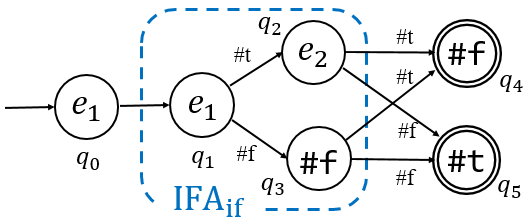
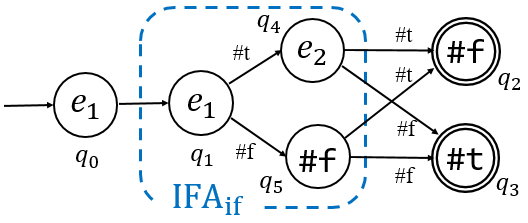
fix 4&6

diff --git a/popl21/zhichaoapproach.tex b/popl21/zhichaoapproach.tex
@@ -53,7 +53,7 @@ As mentioned above, IFA intuitively describes the evaluation rules of a certain 
         \label{fig:ifa-nand}
     \end{figure}
 
-    Sometimes the rules may be more complex, such as being reduced into another language construct, or an expression containing other syntactic structures. For example, for the following evaluation rules for \m{nand}:
+    Sometimes the rules may be more complex, such as being reduced into another language construct, or an expression containing other language constructs. For example, for the following evaluation rules for \m{nand}:
     \[
         \infer{(\m{nand}~e_1~e_2) \to (\m{nand}~e_1'~e_2)}{e_1 \to e_1'}
     \]\[
@@ -64,9 +64,9 @@ As mentioned above, IFA intuitively describes the evaluation rules of a certain 
     % \infax[E-NandV]{(\m{nand}~v_1~e_2) \to (\m{if}~(\m{if}~v_1~e_2~\m{\#f})~\m{\#f}~\m{\#t})}
     %
     we can draw \m{nand}'s IFA as Figure \ref{fig:ifa-nand-a}.
-    When the automaton runs into the terminal node of Figure \ref{fig:ifa-nand-a}, it goes to derive the \m{if} expression. In fact, we have known how \m{if} works through the IFA of \m{if}. Thus we can replace the last node with an $\text{IFA}_{\m{\scriptsize if}}$ and substitute $e_1$ to $e_3$ of $\text{IFA}_{\m{\scriptsize if}}$ with the parameters of the node. Use the termination nodes of $\text{IFA}_{\m{\scriptsize if}}$ as the termination nodes of new $\text{IFA}_{\m{\scriptsize \scriptsize nand}}$. The results are shown in Figure \ref{fig:ifa-nand-b}. Further decomposing the inner \m{if} node, connecting the terminating nodes of $\text{IFA}_{\m{\scriptsize nand}}$ to the nodes pointed to by the original output edge, we get Figure \ref{fig:ifa-nand-c}.
+    When the automaton runs into the terminal node of Figure \ref{fig:ifa-nand-a}, it goes to derive the \m{if} expression. In fact, we have known how \m{if} works through the IFA of \m{if}. Thus we can replace the last node with an $\text{IFA}_{\m{\scriptsize if}}$ and substitute $e_1$ to $e_3$ of $\text{IFA}_{\m{\scriptsize if}}$ with the parameters of the node. Use the terminal nodes of $\text{IFA}_{\m{\scriptsize if}}$ as the terminal nodes of new $\text{IFA}_{\m{\scriptsize \scriptsize nand}}$. The results are shown in Figure \ref{fig:ifa-nand-b}. Further decomposing the inner \m{if} node, connecting the terminal nodes of $\text{IFA}_{\m{\scriptsize nand}}$ to the nodes pointed to by the original output edge, we get Figure \ref{fig:ifa-nand-c}.
 
-    As the nodes of IFA in Figure \ref{fig:ifa-nand-c} have no other composite syntactic structures, such an IFA completely expresses the semantics of a language construct, and no longer cares about the evaluation rules of other syntactic structures. We will do similar steps for syntactic sugars, which will be discussed later.
+    As the nodes of IFA in Figure \ref{fig:ifa-nand-c} have no other composite language constructs, such an IFA completely expresses the semantics of a language construct, and no longer cares about the evaluation rules of other language constructs. We will do similar steps for syntactic sugars, which will be discussed later.
     \myend
 \end{example}
 
@@ -105,10 +105,10 @@ As mentioned above, IFA intuitively describes the evaluation rules of a certain 
     An inference automaton (IFA) of language construct \m{H} is a 5-tuple, $(Q, \Sigma, q_0, F, \delta)$, consisting of
 
     \begin{itemize}
-        \item A finite set of nodes $Q$, each node containing an expression and a symbol table which maps a variable to a node;
+        \item A finite set of nodes $Q$, each node containing an expression and a symbol table which maps variables to nodes;
         \item A finite set of conditions $\Sigma$;
         \item A start node $q_0 \in Q$;
-        \item A set of terminal nodes $F \subseteq Q$; and
+        \item A set of terminal nodes $F \subseteq Q$;
         \item A transition function $\delta: (Q-F) \times \Sigma' \to Q$ where $\Sigma' \subseteq \Sigma$.
     \end{itemize}
     and for each node $q$, there is no path to itself (i.e., there is no sequence of conditions $C = (c_1,c_2,\ldots,c_n)\subseteq \Sigma^*$, such that after $q$ transfers sequentially according to $P$, it returns $q$.)
@@ -116,12 +116,12 @@ As mentioned above, IFA intuitively describes the evaluation rules of a certain 
 \end{Def}
 
 %The last constraint requires that there be no circles in our IFA.
-The state transition depends on whether the expression meets the condition. Note that each IFA is associated with language construct. Each state in IFA represents the current evaluation of a language construct, indicating that some subexpressions of the language construct have been evaluated at this state, and the rest have not.
+The state transition depends on whether the expression meets the condition. Note that each IFA is associated with language construct. Each state in IFA represents the current evaluation of a language construct, indicating that some subexpressions of the language construct have been evaluated at this state, and the others have not.
 
 %======================
 \subsection{Normal IFA}
 
-Although IFA can describe the evaluation behavior of a language construct, IFA itself may be in a complicated form. For example, the IFA of a language construct contains other syntactic structures in Figure \ref{fig:ifa-nand-a}. We will simplify IFA to make it easier to analyze.
+Although IFA can describe the evaluation behavior of a language construct, IFA itself may be in a complicated form. For example, the IFA of a language construct contains other language constructs in Figure \ref{fig:ifa-nand-a}. We will simplify IFA to make it easier to analyze.
 
 \begin{Def}[Normal IFA]
     \label{def:nmlifa}
@@ -133,12 +133,12 @@ Although IFA can describe the evaluation behavior of a language construct, IFA i
     \end{itemize}
 \end{Def}
 
-If an IFA is normal, it means that there are no more composite syntactic structures in it, and that it is of a tree structure.
+If an IFA is normal, it means that there are no more composite language constructs in it, and that it is of a tree structure.
 In fact, it is always feasible to convert IFA to normal IFA.
 
 \begin{mythm}[Normalizability of IFA]
     \label{mythm:nmlifa}
-    An IFA can be transformed into a normal IFA, if the normal IFAs of all sub-syntactic structures in the IFA are known.
+    An IFA can be transformed into a normal IFA, if the normal IFAs of all sub-language constructs in the IFA are known.
 \end{mythm}
 
 We can prove this theorem by repeatedly applying the following correctness-preserving steps to normalize an IFA.
@@ -147,7 +147,7 @@ We can prove this theorem by repeatedly applying the following correctness-prese
 %------------------------------------
 \subsubsection*{Step 1: Transforming into a Tree}
 
-As we have assumed that evaluation of a subexpression does not have side effect on the evaluation of other subexpressions, a node with at least two sources can be cloned and applied to different branches as shown in Figure \ref{fig:nmlifa-tree}; replacing the node referenced by the branch with the cloned node in conditions and symbol tables.  In this way, we can transform an IFA into a tree so that it meet the second condition for a  normal IFA.
+As we have assumed that evaluation of a subexpression does not have side effects on the evaluation of other subexpressions, a node with at least two sources can be cloned and applied to different branches as shown in Figure \ref{fig:nmlifa-tree}; replacing the node referenced by the branch with the cloned node in conditions and symbol tables.  In this way, we can transform an IFA into a tree so that it meet the second condition for a normal IFA.
 
 \begin{figure}[t]
     \centering
@@ -160,7 +160,7 @@ As we have assumed that evaluation of a subexpression does not have side effect 
 \subsubsection*{Step 2: Substituting Sub-Language Construct}
 \label{mark:hygieneinderive}
 
-If node $q$ in the tree IFA contains an expression of a language construct \m{H}, we replace this node with the normal IFA of \m{H}, replace the parameters, and pass the symbol table of $q$ into the sub-IFA. Then, connect all the termination nodes of \m{H} to the original output node $q'$, and convert it into a tree IFA according to the method described in the previous step as shown in Figure \ref{fig:nmlifa-subst}. Replace the node referenced by the branch with the \textit{new} one in conditions and symbol tables. This step preserve the semantics because of $(\m{H}~e_1~\ldots~e_n)[e/x] = (\m{H}~e_1[e/x]~\ldots~e_n[e/x])$.
+If node $q$ in the tree IFA contains an expression of a language construct \m{H}, we replace this node with the normal IFA of \m{H}, replace the parameters, and pass the symbol table of $q$ into the sub-IFA. Then, connect all the terminal nodes of \m{H} to the original output node $q'$, and convert it into a tree IFA according to the method described in the previous step as shown in Figure \ref{fig:nmlifa-subst}. Replace the node referenced by the branch with the \textit{new} one in conditions and symbol tables. This step preserve the semantics because of $(\m{H}~e_1~\ldots~e_n)[e/x] = (\m{H}~e_1[e/x]~\ldots~e_n[e/x])$.
 
 In particular, if an expression $e$ does not contain a certain variable $x$, we can remove it from the symbol table. For example, in our problem, each pattern variable $e_i$ of syntactic sugar cannot contain unbound variables. So we can remove all symbol tables of nodes with $e_i$.
 
@@ -188,7 +188,7 @@ If the expression of a node $q$ is a local variable $x$ and $x$ is in the symbol
 %---------------------------------------------------------------------
 \subsubsection*{Step 4: Removing Evaluated Nodes and Merge Transition Conditions}
 
-If an IFA is a tree, for each branch, remove the non-terminal nodes that have been evaluated with the same symbol table, and merge the conditions on the transition edge as in Figure \ref{fig:nmlifa-merge}. Replace the node referenced by the branch with the first-evaluated node in conditions and symbol tables. This step can make an IFA satisfy the third constraint of normal IFA.
+If an IFA is a tree, for each branch, remove the non-terminal nodes that have been evaluated with the same symbol table, and merge the conditions on the transition edge as Figure \ref{fig:nmlifa-merge}. Replace the node referenced by the branch with the first-evaluated node in conditions and symbol tables. This step can make an IFA satisfy the third constraint of normal IFA.
 
 Since on any branch, if $e_i$ is removed, it must have been evaluated. Therefore, when IFA runs to this node, there is no need to do any evaluation on $e_i$. At the same time, the transfer edge ensures that the conditions are not lacking. Correctness is guaranteed.
 
@@ -202,7 +202,7 @@ Since on any branch, if $e_i$ is removed, it must have been evaluated. Therefore
 %------------------------------------
 \subsubsection*{Step 5: Removing Constant Value}
 
-If the expression of a node is a constant value, remove the node and merge the conditions on the transition edge just like evaluated value. Because IFA does not do anything in this node, this does not affect the correctness of IFA.
+If the expression of a node is a constant value, remove the node and merge the conditions on the transition edge. Because IFA does not do anything in this node, this does not affect the correctness of IFA.
 
 %-------------------------------------
 %\subsubsection{Normalizability of IFA}
@@ -214,22 +214,20 @@ If the expression of a node is a constant value, remove the node and merge the c
 %===========================================
 \subsection{Converting Evaluation rules to IFA}
 
-At the beginning of this section, we have shown several examples about correspondence between IFA and evaluation rules. Now, we give an algorithm that can automatically convert the evaluation rules to IFA and ensure its correctness. But at the same time, it has stricter requirements on the evaluation rules.
-
-In this section, we only discuss core language. Syntactic sugar is similar to this, which we discuss it later.
+At the beginning of this section, we have shown several examples about correspondence between IFA and evaluation rules. Now, we give an algorithm that can automatically convert the evaluation rules to IFA and ensure its correctness. But at the same time, it has stricter requirements on the evaluation rules. We only discuss the core language here. Syntactic sugar is similar to this, which we discuss later.
 
 %--------------------------
 %\subsubsection{Assumptions}
 
 \begin{Asm}
     \label{Asm:rules}
-    A language construct $H$ only contains the evaluation rules in the following form:
+    A language construct \m{H} only contains the evaluation rules in the following form:
     \[
         \infer
-        {(\m{H}~e_1 \ldots e_i \ldots e_n) \to (\m{H}~e_1 \ldots e_i' \ldots e_n)}{e_i \to e_i'\quad T}
+        {(\m{H}~e_1~\ldots~e_i~\ldots~e_n) \to (\m{H}~e_1~\ldots~e_i'~\ldots~e_n)}{e_i \to e_i'\quad T}
     \]
     \[
-        \infer{(\m{H}~v_1 \ldots v_p~e_1 \ldots e_q) \to e}{T}
+        \infer{(\m{H}~e_1~\ldots~e_n) \to e}{T}
     \]
     %where $e$ can be any value, one of the parameters or a term of another language construct.
     where $T$ is a constraint over $e_j$ for $j \in 1,2,\ldots,n$.
@@ -239,10 +237,10 @@ This assumption specifies the form of the evaluation rules to ensure that IFAs c
 
 \begin{Asm}[Orderliness of Language Construct]
     \label{Asm:orderliness}
-    The language construct in the core language is finite. Think of all syntactic structures as points in a directed graph. If one of $H$'s evaluation rules can generate an expression containing $H'$, then construct an edge that points from $H$ to $H'$. The directed graph generated in this method has no circles.
+    The language construct in the core language is finite. Think of all language constructs as points in a directed graph. If one of $H$'s evaluation rules can generate an expression containing $H'$, then construct an edge that points from $H$ to $H'$. The directed graph generated in this method has no circles.
 \end{Asm}
 
-IFAs are not able to construct syntactic structures that contain recursive rules. This assumption qualifies that we can find an order for all syntactic structures, and when we try to construct IFA for $H$, IFA of $H'$ is known.
+IFAs are not able to construct language constructs that contain recursive rules. This assumption qualifies that we can find an order for all language constructs, and when we try to construct IFA for $H$, IFA of $H'$ is known.
 
 \begin{Asm}[Determinacy of One-Step Evaluation]
     \label{Asm:determinacy}
@@ -261,22 +259,22 @@ By assumption \ref{Asm:determinacy}, we can get the following lemma, which point
 \end{proof}
 
 %------------------------
-\subsubsection{Converting Algorithm}
+\subsubsection{Algorithm}
 
 \begin{mythm}[IFA Can Be Constructed by Evaluation Rules]
     \label{mythm:Rule2IFA}
-    If all the syntactic structures in the core language satisfy these assumptions, we can construct IFAs for all syntactic structures in the core language.
+    If all the language constructs in the core language satisfy these assumptions, we can construct IFAs for all language constructs in the core language.
 \end{mythm}
 
 \begin{proof}[Proof of Theorem \ref{mythm:Rule2IFA}]
 
-    We prove this theorem by giving an algorithm that converts evaluation rules to IFA. By Assumption \ref{Asm:orderliness}, we get an order of syntactic structures. We construct the IFA for each structure in turn.
+    We prove this theorem by giving an algorithm that converts evaluation rules to IFA. By Assumption \ref{Asm:orderliness}, we get an order of language constructs. We construct the IFA for each structure in turn.
 
     We generate a node for each rule of the language construct \m{H} and insert them into $Q$. If the rule is a context rule for a pattern varibale $e_i$, set $e_i$ as the expression of the node. If the rule is a reduction rule, add them into $F$ as terminal nodes and set the reduced expression $e$ as the expression of the node. Symbol tables of these nodes are set to be empty. Next we connect these nodes.
 
     For an expression like $(\m{H}~e_1~\ldots~e_n)$, suppose that $e_1, \ldots, e_n$ are not value, According to Lemma \ref{lemma:one-step}, we have the unique rule $r$ of \m{H} for one-step evaluation. Let node $q$ corresponding to $r$ be $q_0$.
 
-    If $r$ is a context rule for $e_i$, let the expression of $q$ be $e_i$. Assume that the evaluation of $e_i$ results in $v_i$, we get expression $(\m{H}~e_1 \ldots e_{i-1}~v_i~e_{i+1} \ldots e_n)$. For each possible value of $v_i$, choose the rules $r'$ that should be used. The node is $q'$. Set a condition as $c=q~\key{is}~v_i$ Let $\delta(q, c)$ be $q'$. For each branch, seem $r'$ as $r$ and keep doing this until $r$ is a reduction rule.
+    If $r$ is a context rule for $e_i$, assume that the evaluation of $e_i$ results in $v_i$, we get expression $(\m{H}~e_1~\ldots~e_{i-1}~v_i~e_{i+1}~\ldots~e_n)$. For each possible value of $v_i$, choose the rules $r'$ that should be used. The node is $q'$. Set a condition as $c=q~\key{is}~v_i$. Let $\delta(q, c)$ be $q'$. For each branch, seem $r'$ as $r$ and keep doing this until $r$ is a reduction rule.
 \end{proof}
 
 In this way, we got an IFA of \m{H}. According to the lemma \ref{mythm:nmlifa}, we can also get a normal IFA of \m{H}.
@@ -339,7 +337,7 @@ Before proving the correctness of the algorithm, we first prove the following le
     %[Proof of Lemma \ref{lemma:rule2ifa-correct}]
     We only need to discuss that in a one-step derivation, both get the same result.
 
-    Consider an expression $e=(\m{H}~e_1 \ldots e_n)$ and a rule $r$ for derivation. Suppose $r$ generates node $q$. By Lemma \ref{lemma:accessibility}, we find a path from $q_0$ to $q$. The expression $e$ must meet the conditions from $q_0$ to $q$. Therefore, the one-step derivation of this expression $e$ in IFA must be located at $q$. If $r$ is a context rule for a pattern variable $e_i$, the expression of $q$ is $e_i$ as well, and $e_i$ of $e$ is not a value. Thus both of the one-step derivation of $e$ are one-step derivation of $e_i$. If $r$ is a reduction rule to $e'$, both are $e'$.
+    Consider an expression $e=(\m{H}~e_1~\ldots~e_n)$ and a rule $r$ for derivation. Suppose $r$ generates node $q$. By Lemma \ref{lemma:accessibility}, we find a path from $q_0$ to $q$. The expression $e$ must meet the conditions from $q_0$ to $q$. Therefore, the one-step derivation of this expression $e$ in IFA must be located at $q$. If $r$ is a context rule for a pattern variable $e_i$, the expression of $q$ is $e_i$ as well. Thus both of the one-step derivation of $e$ are one-step derivation of $e_i$. If $r$ is a reduction rule to $e'$, both are $e'$.
 
     Similarly, if an expression can be derived in one step in IFA, then it must be able to use the corresponding rule for one-step derivation.
 \end{proof}
@@ -393,17 +391,17 @@ Similarly, we first give its algorithm, and then prove its correctness.
 
 \begin{proof}
 
-    Suppose that the IFA stands for the language construct $H$, then we build evaluation rules for $H$. First traverse all nodes to find the set of all expressions in nodes, which is the parameters of the language construct $H$ like $(\m{H}~e_1 \ldots e_n)$. Then generate evaluation rule for each node.
+    Suppose that the IFA stands for the language construct \m{H}, then we build evaluation rules for $H$. First traverse all nodes to find the set of all expressions in nodes, which is the parameters of the language construct \m{H} like $(\m{H}~e_1~\ldots~e_n)$. Then generate evaluation rule for each node.
 
     Begin with $q_0$, traverse the IFA. Let $q$ be $q_0$. Record the conditions by a set $T$.
 
     Suppose that $q$ is a terminal node, the expression of $q$ is $e$ and the symbol table of $q$ is like $\{x:q_x; y:q_y; \ldots\}$. Let $e_x,e_y,\ldots$ be the expressions of $q_x, q_y, \ldots$. Add a reduction rule like
     \[
-        \infer{(\m{H}~e_1 \ldots e_n) \to e[e_x/x][e_y/y]\ldots}{T}
+        \infer{(\m{H}~e_1~\ldots~e_n) \to e[e_x/x][e_y/y]\ldots}{T}
     \]
-    % \infrule[E-Hr]{T}{(\m{H}~e_1 \ldots e_n) \to e[e_x/x][e_y/y]\ldots}
+    % \infrule[E-Hr]{T}{(\m{H}~e_1~\ldots~e_n) \to e[e_x/x][e_y/y]\ldots}
 
-    If $q$ is not a termination node, and the expression of $q$ is $e_i$, add a context rule like
+    If $q$ is not a terminal node, and the expression of $q$ is $e_i$, add a context rule like
     \[
         \infer{(\m{H}~e_1~\ldots~e_i~\ldots~e_n) \to (\m{H}~e_1~\ldots~e_i'~\ldots~e_n)}{e_i \to e_i' \quad T}
     \]
@@ -503,7 +501,7 @@ Similarly, we first give its algorithm, and then prove its correctness.
     %[Proof of Lemma \ref{lemma:ifa2rule-correct}]
     We only need to discuss that in a one-step derivation, both get the same result.
 
-    Considering an expression $e=(\m{H}~e_1 \ldots e_n)$ use rule $r$ to derive. The expression $e$ must meet the condition $T$ of $r$ such as some parameters must be value or a specific value. Suppose $r$ is generated by node $q$. Then $T$ is the set of all transition conditions from $q_0$ to $q$. Therefore, the one-step derivation of this expression $e$ in IFA must be located at $q$. If $r$ is a context rule for a pattern variable $e_i$, the expression of $q$ is $e_i$ as well, and $e_i$ of $e$ is not a value. Thus both of the one-step derivation of $e$ are one-step derivation of $e_i$.
+    Considering an expression $e=(\m{H}~e_1~\ldots~e_n)$ use rule $r$ to derive. The expression $e$ must meet the condition $T$ of $r$ such as some parameters must be value or a specific value. Suppose $r$ is generated by node $q$. Then $T$ is the set of all transition conditions from $q_0$ to $q$. Therefore, the one-step derivation of this expression $e$ in IFA must be located at $q$. If $r$ is a context rule for a pattern variable $e_i$, the expression of $q$ is $e_i$ as well, and $e_i$ of $e$ is not a value. Thus both of the one-step derivation of $e$ are one-step derivation of $e_i$.
 
     Similarly, if an expression can be derived in one step in IFA, then it must be able to use the corresponding rule for one-step derivation.
 \end{proof}

diff --git a/popl21/relatedWork.tex b/popl21/relatedWork.tex
@@ -20,7 +20,7 @@ Our work on evaluation rule derivation for the surface language was inspired by 
 % \todo{We may explain the key idea about how we deal with this assumption.}
 
 
-\emph{Macros as multi-stage computations} \cite{multistage} is a work related to our lazy expansion for sugars. Some other researches \cite{modularstaging} about multi-stage programming \cite{MSP} indicate that it is useful for implementing domain-specific languages. However, multi-stage programming is a metaprogramming method, which mainly works for run-time code generation and optimization. In contrast, our lazy resugaring approach treats sugars as part of a mixed language, rather than separate them by staging. Moreover, the lazy desugaring gives us chance to derive evaluation rules of sugars, which is a new good point compared to multi-stage programming.
+\emph{Macros as multi-stage computations} \cite{multistage} is a work related to our lazy expansion for sugars. Some other researches \cite{modularstaging} about multi-stage programming \cite{MSP} indicate that it is useful for implementing domain-specific languages. However, multi-stage programming is a metaprogramming method, which mainly works for run-time code generation and optimization. In contrast, our lazy resugaring approach treats sugars as part of a mixed language, rather than separate them by staging. Moreover, the lazy desugaring gives us a chance to derive evaluation rules of sugars, which is a new good point compared to multi-stage programming.
 
 Our work is related to the \emph{Galois slicing for imperative functional programs} \cite{slicing}, a work for dynamic analyzing functional programs during execution. The forward component of the Galois connection maps a partial input $x$ to the greatest partial output $y$ that can be computed from $x$; the backward component of the Galois connection maps a partial output $y$ to the least partial input $x$ from which we can compute $y$.
 %Our approach used a similar idea on slicing expressions and processing on subexpressions.
